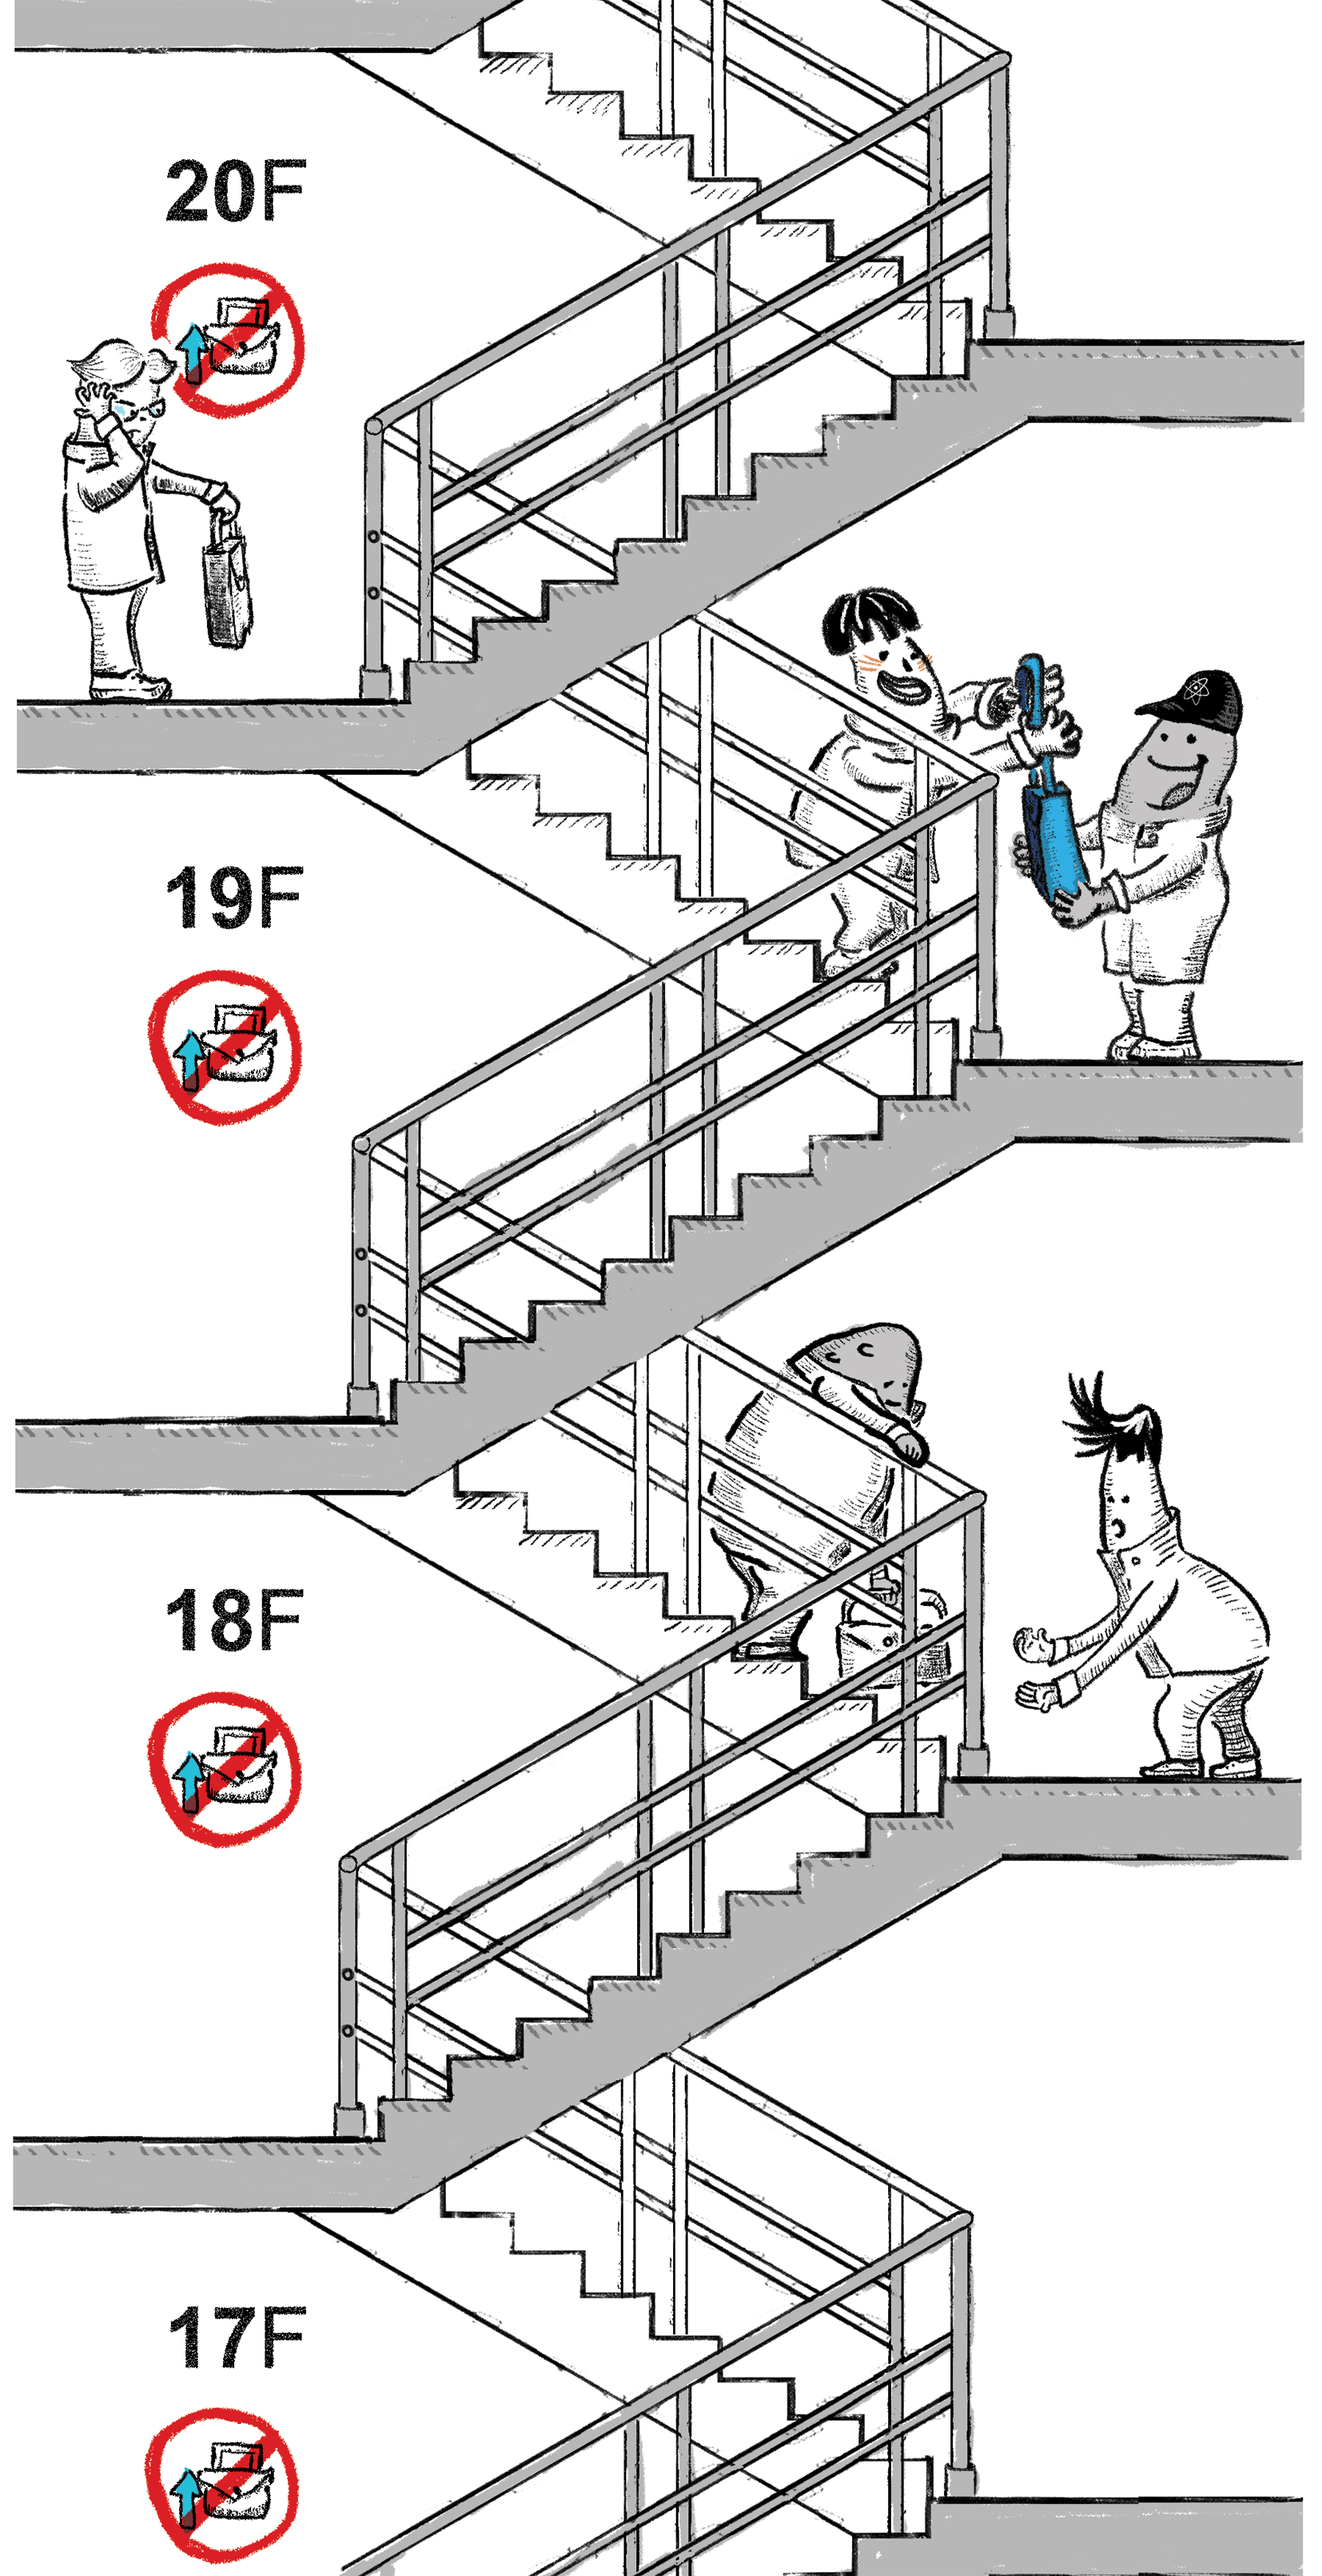
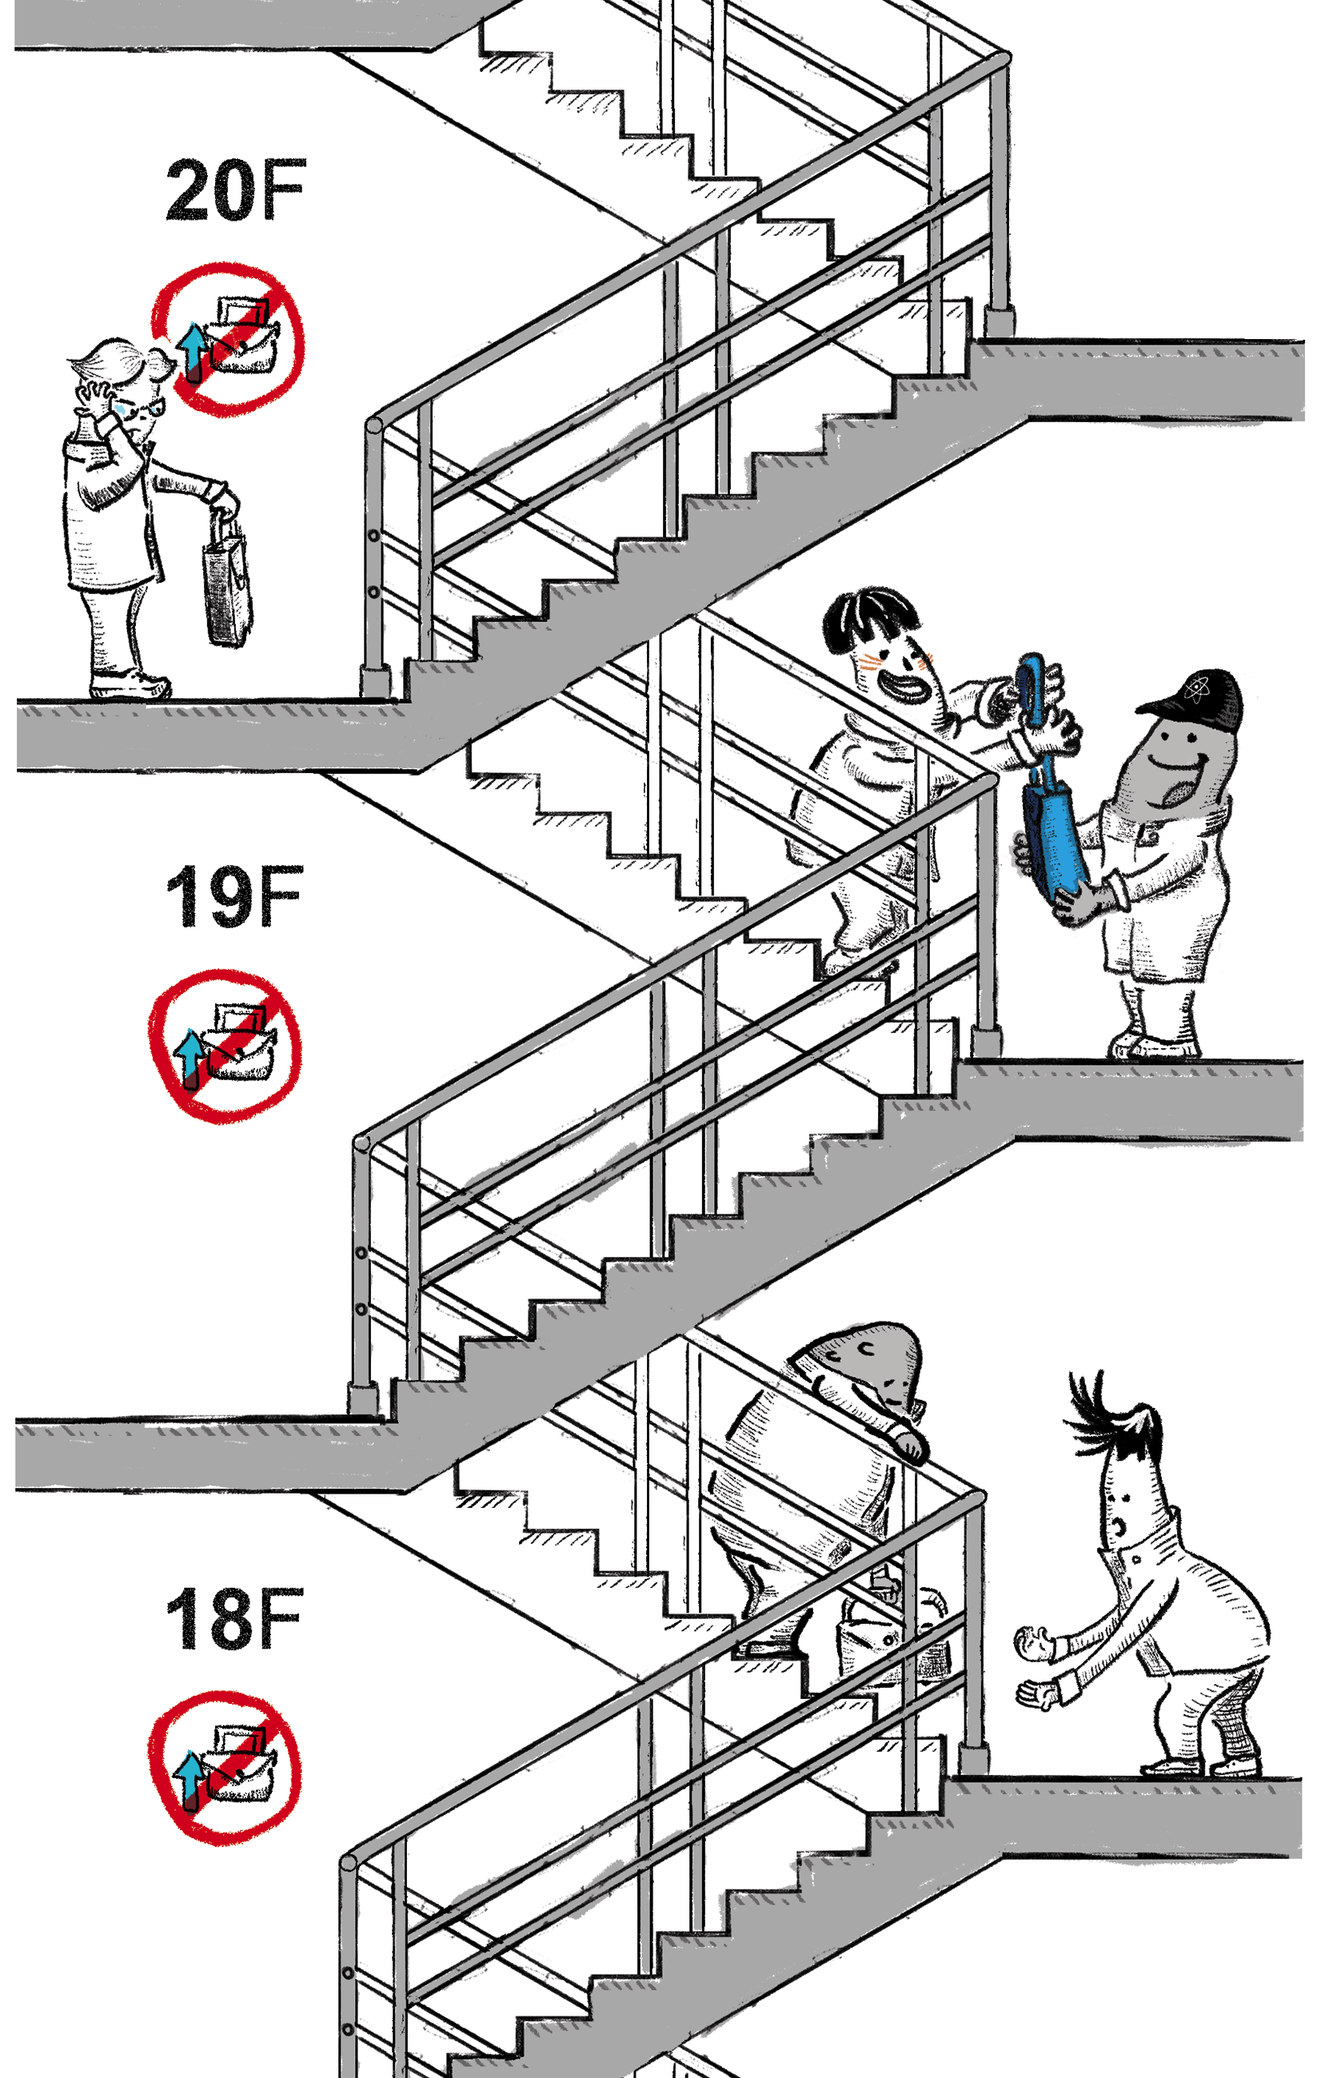
Handle image size

diff --git a/nextapp/src/components/courses/react-mental-models/BookPreview.tsx b/nextapp/src/components/courses/react-mental-models/BookPreview.tsx
@@ -120,6 +120,7 @@ const sectionTransitionDuration = 2
 
 function usePreloadImages(sections) {
   const [loading, setLoading] = useState(true)
+  const [imgDims, setImgDims] = useState({})
   useEffect(() => {
     const allImages = [
       spaceShipPng,
@@ -134,11 +135,15 @@ function usePreloadImages(sections) {
       img.src = imgUrl
       img.onload = () => {
         loaded.add(imgUrl)
+        setImgDims((prev) => ({
+          ...prev,
+          [imgUrl]: { width: img.width, height: img.height },
+        }))
         if (loaded.size > 6) setLoading(false)
       }
     }
   }, [])
-  return loading
+  return [loading, imgDims]
 }
 
 type PathsProps = {
@@ -255,7 +260,7 @@ function Paths({ animatePathIndex, ...props }: PathsProps) {
   )
 }
 
-function MentalModelMap({ sections }) {
+function MentalModelMap({ sections, imageDims }) {
   const x = useMotionValue(0)
   const y = useMotionValue(0)
   const [sectionIndex, setSectionIndex] = useState(0)
@@ -275,6 +280,21 @@ function MentalModelMap({ sections }) {
   }, [sectionIndex])
 
   const activeSection = sections[sectionIndex]
+  const activeImgDim = imageDims[activeSection.modelImage] || {
+    width: 600,
+    height: 500,
+  }
+
+  let modelImageContainerWidth = Math.min(800, vw * 0.8)
+  let modelImageContainerHeight =
+    activeImgDim.height * (modelImageContainerWidth / activeImgDim.width) + 55
+
+  if (modelImageContainerHeight > vh) {
+    modelImageContainerHeight = vh * 0.9
+    modelImageContainerWidth =
+      (modelImageContainerHeight * activeImgDim.width) / activeImgDim.height -
+      25
+  }
 
   return (
     <>
@@ -327,9 +347,10 @@ function MentalModelMap({ sections }) {
       <motion.div
         className="absolute m-auto inset-0 border-8 border-gray-700 rounded-lg shadow-xl"
         style={{
-          width: 600,
-          height: 500,
+          width: modelImageContainerWidth,
+          height: modelImageContainerHeight,
           transformOrigin: 'center bottom',
+          maxHeight: '90%',
         }}
         key={sectionIndex}
         initial={{ scale: 0, opacity: 1 }}
@@ -345,7 +366,7 @@ function MentalModelMap({ sections }) {
           <span>{activeSection.title}: </span>
           <span>{activeSection.subtitle}</span>
         </h2>
-        <Image src={activeSection.modelImage} width={600} height={500} />
+        <img src={activeSection.modelImage} />
       </motion.div>
     </>
   )
@@ -439,7 +460,7 @@ function Beginning({
 }
 
 export function BookPreview({ sections, title, subtitle, startButtonText }) {
-  const isLoading = usePreloadImages(sections)
+  const [isLoading, imgDims] = usePreloadImages(sections)
   const [showBeginning, setShowBeginning] = useState(true)
   const [playBgMusic] = useSound('/bgmusic.mp3')
   return (
@@ -458,7 +479,7 @@ export function BookPreview({ sections, title, subtitle, startButtonText }) {
             />
           </motion.div>
         ) : (
-          <MentalModelMap sections={sections} />
+          <MentalModelMap sections={sections} imageDims={imgDims} />
         )}
       </AnimatePresence>
     </div>
